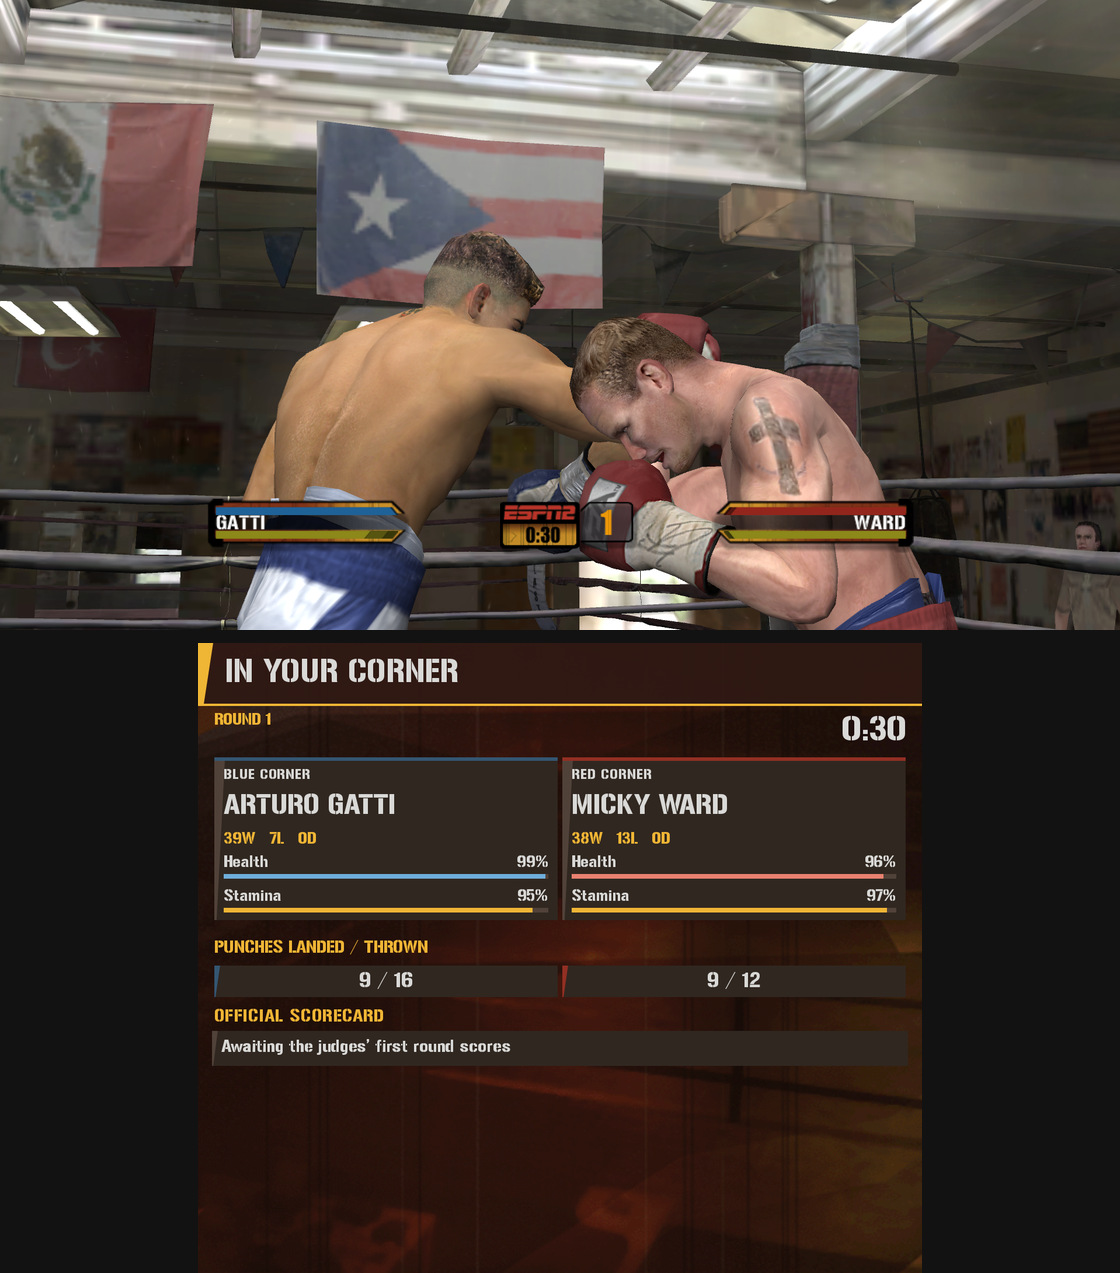
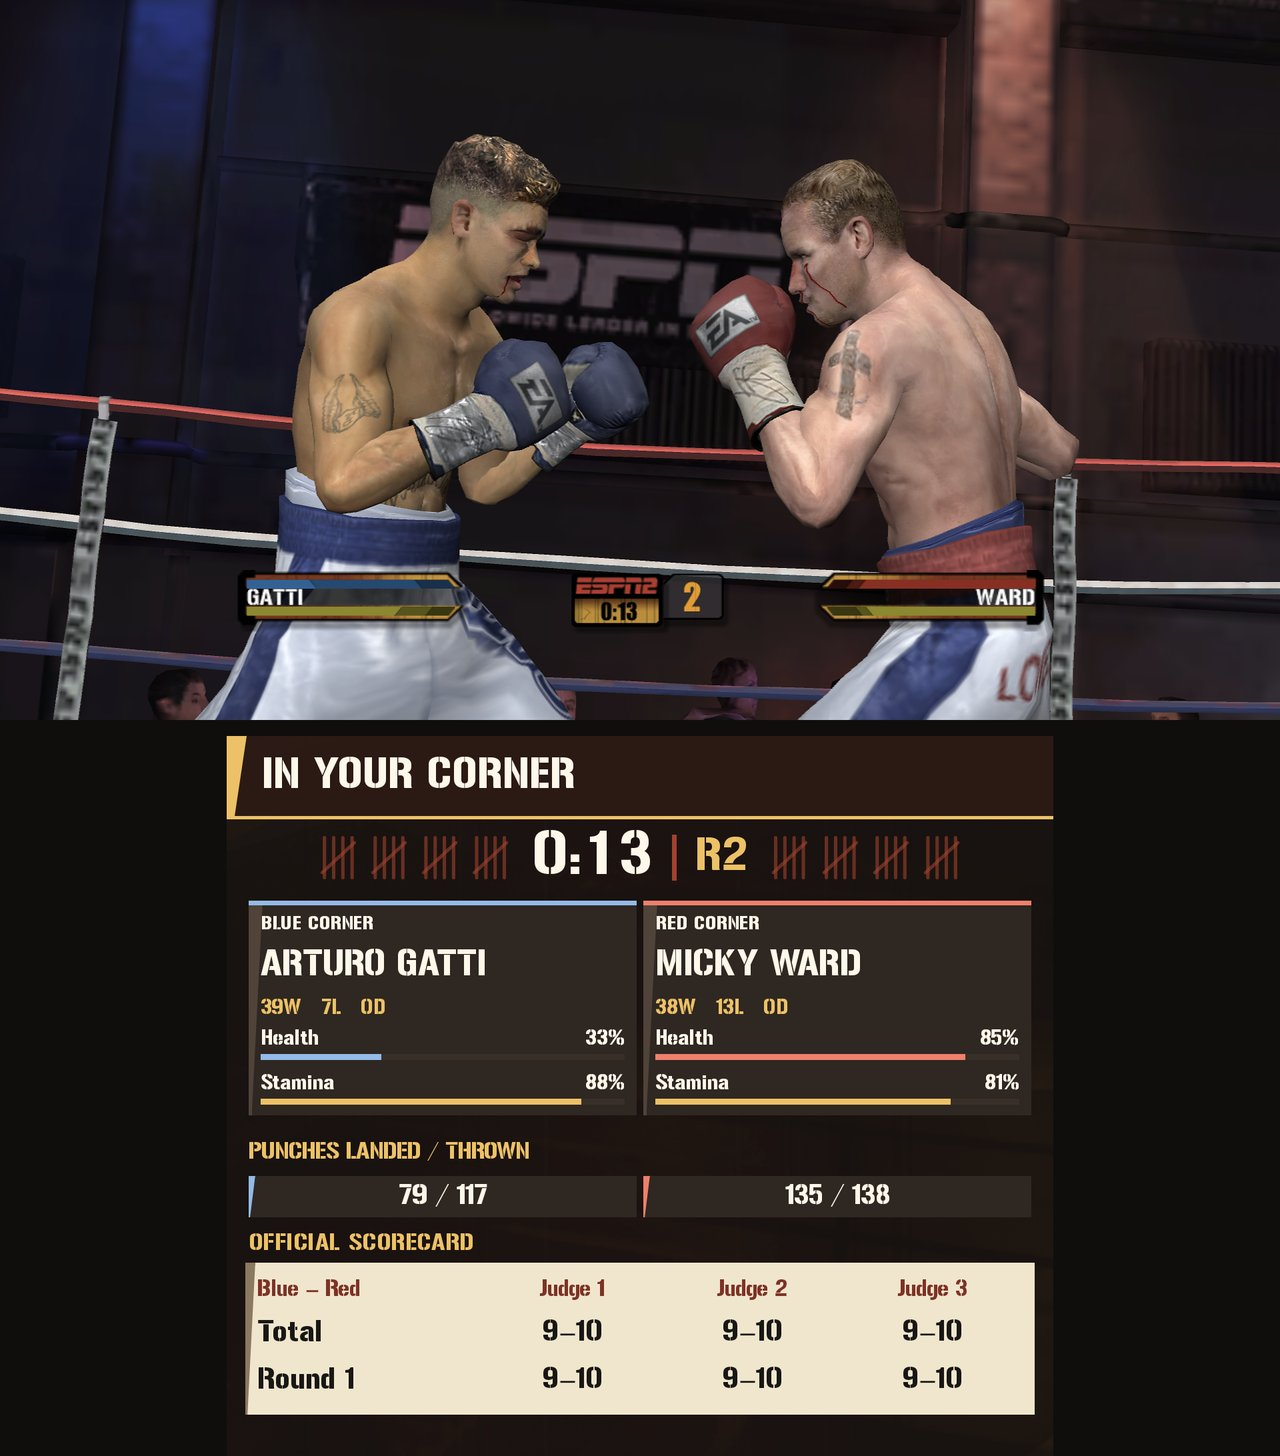
README: Thor screenshots for Alpha 80; versionCode 93 release build

diff --git a/README.md b/README.md
@@ -10,9 +10,9 @@ Play the original Xbox edition of *Fight Night Round 3* on Android. On an AYN Th
 
 > **Bring your own disc.** You’ll need your own North American original Xbox *Fight Night Round 3* ISO. The app recompiles `default.xbe` on your Android device. The APK and this repository omit the retail executable, fighter and arena data, and original EA Trax recordings. FightNight3OGX is an independent fan project. Electronic Arts has no affiliation with the project and does not endorse it.
 
-<p align="center"><img src="docs/screenshots/fight-hud.jpg" width="640" alt="Gatti and Ward trading punches with 30 seconds left in round one. The lower screen shows blue and red health bars, gold stamina bars and both punch counts."></p>
+<p align="center"><img src="docs/screenshots/fight-hud.jpg" width="640" alt="Gatti and Ward in round two with 13 seconds left, captured on an AYN Thor. The lower screen shows a centered 0:13 | R2 timekeeper with round tacks either side, both fighter cards with records, health and stamina, punch counts and the judges' scorecard for round one."></p>
 
-Gatti has landed 9 of 16 punches. Ward has landed 9 of 12. A glance down tells you who’s connecting more often and how much stamina each fighter has left. When the judges turn in a round, their scores appear below the punch totals.
+Round two, 13 seconds left. The lower screen keeps the clock and round on one centered line, flanked by ten round tacks per corner that light up in the fighter's colour for each round the judges give them. Below it: both records, health and stamina, punches landed and thrown, and every filed round on the official scorecard. Ward has landed 135 of 138. Gatti's health is down to 33%.
 
 ## Supported game
 
@@ -88,6 +88,8 @@ If you upgrade an existing installation, the launcher can still read its install
 - **A controller is required.** Fight Setup now says so when no gamepad is connected. There are no touch controls for boxing.
 - **Lower-screen timekeeper:** one centered line, `1:42 | R1`, with a larger clock and tally-mark flanks.
 - **Between rounds** the lower screen shows the next round, both fighters' health and stamina, punches, accuracy, your knockdowns, and up to two corner tips worked out from those numbers.
+
+<p align="center"><img src="docs/screenshots/between-rounds.jpg" width="560" alt="Between rounds two and three on an AYN Thor: Ward in his corner on the top screen; the lower screen reads Round 3 next with both fighter cards, punch totals and the judges' scorecard."></p>
 - **Steadier menu companion:** the lower screen no longer flashes "From your corner" while a submenu such as Play Now is open.
 - **Clearer import messages:** a refused disc is labelled **Wrong platform**, **Different game**, **Unrecognized disc revision** or **Unsupported container**, and **Copy details** includes the `default.xbe` SHA-256.
 - **Graphics driver resets** now return to Fight Setup with a plain message instead of an unexplained crash.
